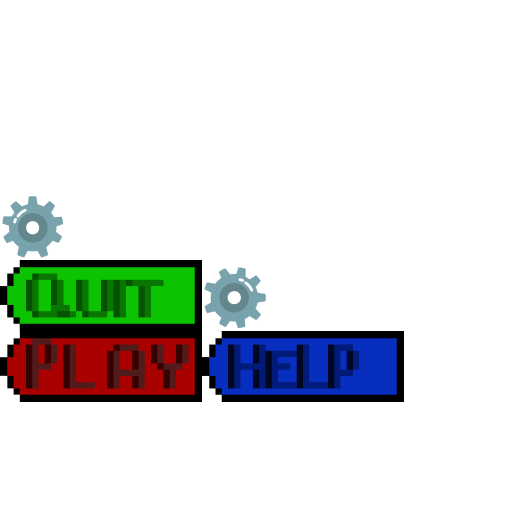
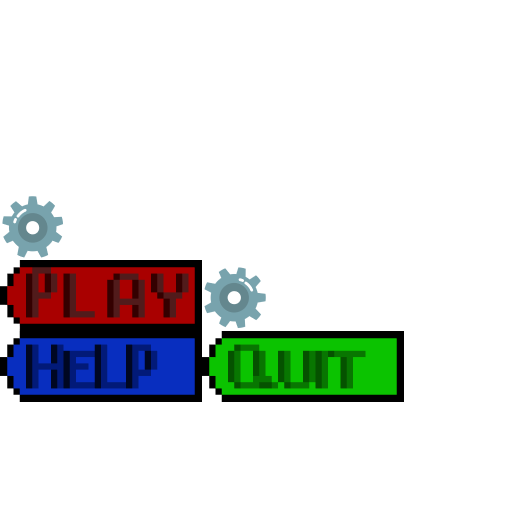
GameSingleton Event Bugfix

Changed region(s): [[0.0, 0.5, 0.7812, 0.7812]]

diff --git a/core/src/com/arco/towerdefense/game/screens/LevelSelectScreen.java b/core/src/com/arco/towerdefense/game/screens/LevelSelectScreen.java
@@ -51,8 +51,9 @@ public class LevelSelectScreen implements Screen {
         Gdx.gl.glClear(GL20.GL_COLOR_BUFFER_BIT);
         game.batch.begin();
             testFont.draw(game.batch, "CLICA AI NO BAGUI PRA JOGAR O JOGO :", 300,350 );
+            update(delta);
         game.batch.end();
-        update(delta);
+
         this.stage.draw();
     }
 
@@ -64,7 +65,7 @@ public class LevelSelectScreen implements Screen {
                 game.setScreen(game.gameScreen = new GameScreen(game, 1));
             }
         });
-        btnLvl1.addAction(sequence( alpha(0), fadeIn(.5f)));
+        btnLvl1.addAction(sequence( alpha(0), fadeIn(.4f)));
 
 
         btnLvl2 = new Button(skin, "btnLvlTwo");
@@ -74,7 +75,7 @@ public class LevelSelectScreen implements Screen {
                 game.setScreen(game.gameScreen = new GameScreen(game, 2));
             }
         });
-        btnLvl2.addAction(sequence( alpha(0), fadeIn(.5f)));
+        btnLvl2.addAction(sequence( alpha(0), fadeIn(.45f)));
 
 
         btnLvl3 = new Button(skin, "btnLvlThr");
@@ -94,7 +95,7 @@ public class LevelSelectScreen implements Screen {
                 //game.setScreen(game.gameScreen = new GameScreen(game, 4));
             }
         });
-        btnLvl4.addAction(sequence( alpha(0), fadeIn(.5f)));
+        btnLvl4.addAction(sequence( alpha(0), fadeIn(.55f)));
 
 
         btnLvl5 = new Button(skin, "btnLvlFiv");
@@ -104,7 +105,7 @@ public class LevelSelectScreen implements Screen {
                 //game.setScreen(game.gameScreen = new GameScreen(game, 5));
             }
         });
-        btnLvl5.addAction(sequence( alpha(0), fadeIn(.5f)));
+        btnLvl5.addAction(sequence( alpha(0), fadeIn(.6f)));
 
         this.table.setBounds(0, -25, stage.getWidth(), stage.getHeight());
 
@@ -123,7 +124,7 @@ public class LevelSelectScreen implements Screen {
 
     @Override
     public void show() {
-
+        Gdx.input.setInputProcessor(this.stage);
     }
 
     @Override
@@ -143,7 +144,7 @@ public class LevelSelectScreen implements Screen {
 
     @Override
     public void hide() {
-
+        GameSingleton.getInstance().restoreOldInputProcessor();
     }
 
     @Override

diff --git a/core/src/com/arco/towerdefense/game/screens/MainMenuScreen.java b/core/src/com/arco/towerdefense/game/screens/MainMenuScreen.java
@@ -73,7 +73,7 @@ public class MainMenuScreen implements Screen {
         playButton.addListener(new ClickListener() {
             @Override
             public void clicked(InputEvent event, float x, float y) {
-                game.setScreen(game.gameScreen = new GameScreen(game, 1));
+                game.setScreen(game.levelSelectScreen);
             }
         });
         playButton.addAction(sequence( alpha(0), fadeIn(.5f)));
@@ -123,7 +123,7 @@ public class MainMenuScreen implements Screen {
 
     @Override
     public void show() {
-
+        Gdx.input.setInputProcessor(this.stage);
     }
 
     @Override
@@ -143,6 +143,6 @@ public class MainMenuScreen implements Screen {
 
     @Override
     public void hide() {
-
+        GameSingleton.getInstance().restoreOldInputProcessor();
     }
 }

diff --git a/core/src/com/arco/towerdefense/game/screens/GameScreen.java b/core/src/com/arco/towerdefense/game/screens/GameScreen.java
@@ -85,7 +85,7 @@ public class GameScreen implements Screen {
         //multiplexer.addProcessor(interactionZoneController);
         multiplexer.addProcessor(hudController.getStage());
         multiplexer.addProcessor(groundController);
-        GameSingleton.getInstance().setInputProcessor(Gdx.input.getInputProcessor());
+        GameSingleton.getInstance().saveCurrentInputProcessor();
         Gdx.input.setInputProcessor(multiplexer);
     }
 
@@ -100,7 +100,7 @@ public class GameScreen implements Screen {
 
     @Override
     public void hide() {
-        Gdx.input.setInputProcessor(GameSingleton.getInstance().getInputProcessor());
+        GameSingleton.getInstance().restoreOldInputProcessor();
     }
 
     public void setLevel(int level) {

diff --git a/core/src/com/arco/towerdefense/game/GameSingleton.java b/core/src/com/arco/towerdefense/game/GameSingleton.java
@@ -130,6 +130,14 @@ public class GameSingleton {
         assetManager.clear();
     }
 
+    public void saveCurrentInputProcessor() {
+        this.setInputProcessor(Gdx.input.getInputProcessor());
+    }
+
+    public void restoreOldInputProcessor() {
+        Gdx.input.setInputProcessor(getInputProcessor());
+    }
+
     public int initGroundScale(int gridBlockSize) {
 //        int groundSize = GameSingleton.getInstance().getTexture(Consts.GROUND_DIRT).getHeight();
 

diff --git a/core/src/com/arco/towerdefense/game/TowerDefenseGame.java b/core/src/com/arco/towerdefense/game/TowerDefenseGame.java
@@ -31,10 +31,10 @@ public class TowerDefenseGame extends Game {
 		gameScreen = new GameScreen(this, 1);
 		helpScreen = new HelpScreen(this);
 		levelSelectScreen = new LevelSelectScreen(this);
-		//mainMenuScreen = new MainMenuScreen(this);
+		mainMenuScreen = new MainMenuScreen(this);
 		gameOverScreen = new GameOverScreen(this);
 
-		this.setScreen(levelSelectScreen);
+		this.setScreen(mainMenuScreen);
 	}
 
 	@Override
